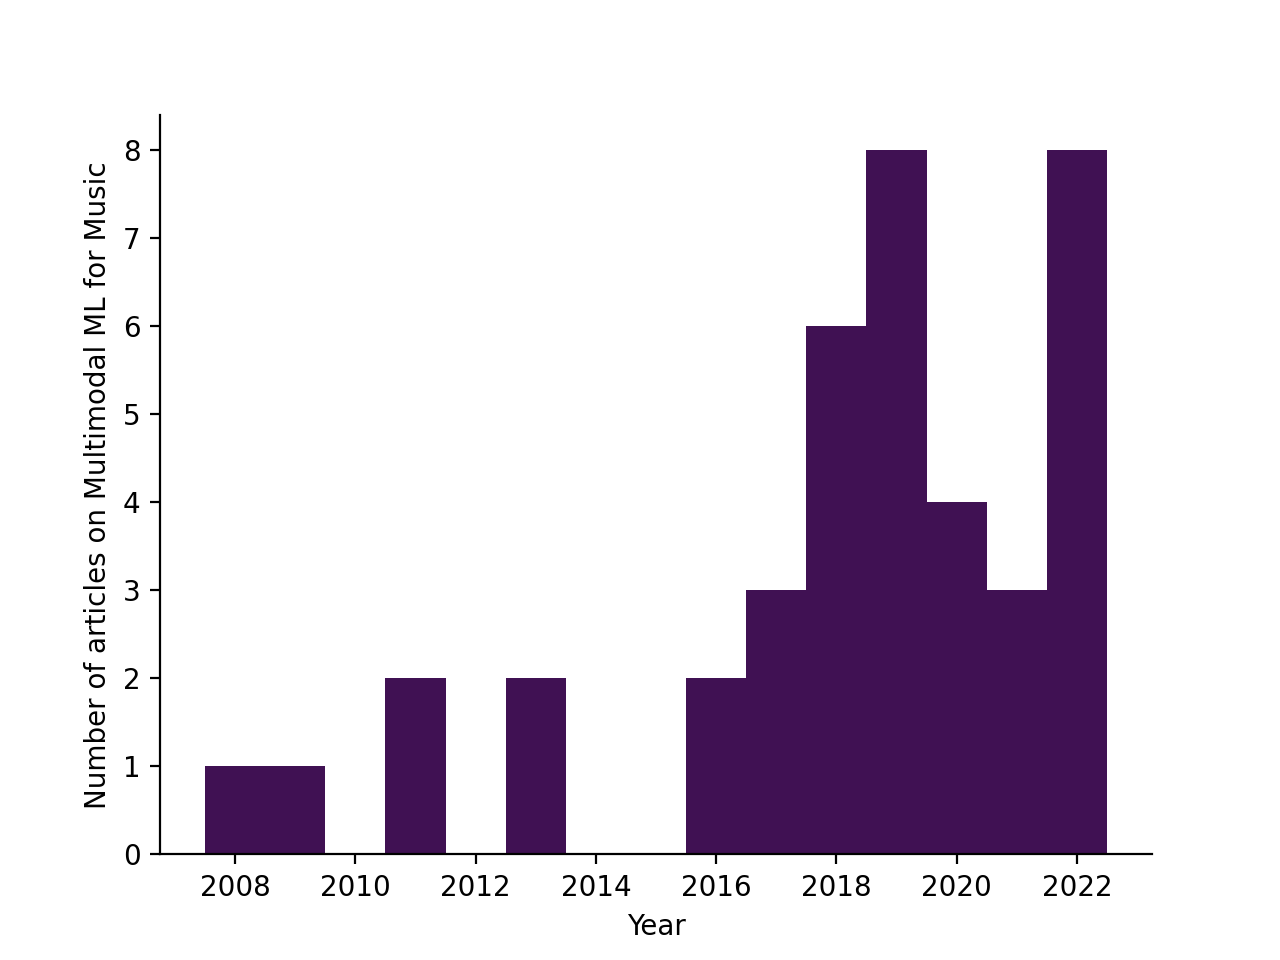
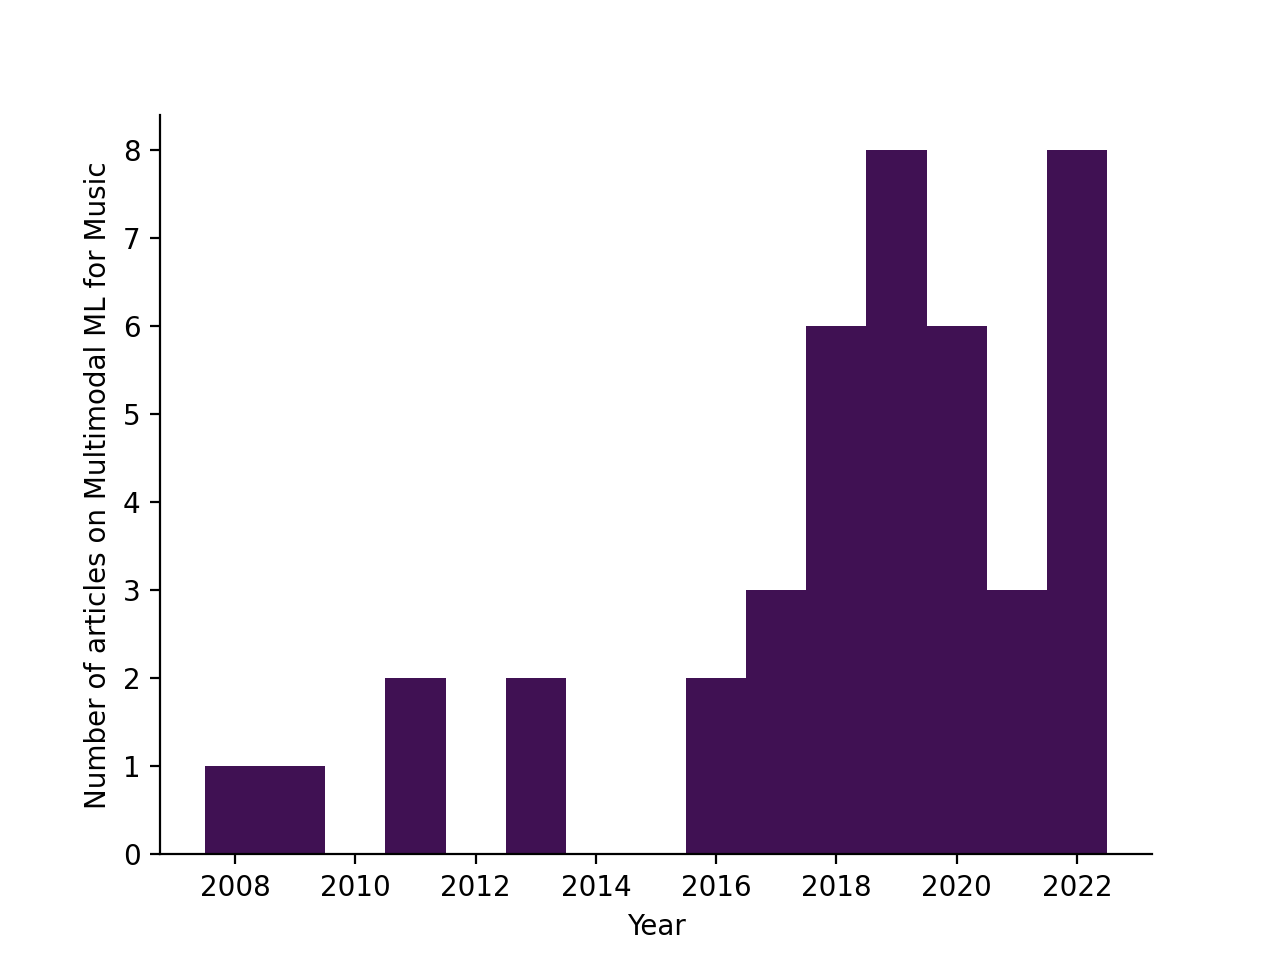
add gan2020foley and gan2020music entries

Changed region(s): [[0.7188, 0.3125, 0.7812, 0.5312]]

diff --git a/README.md b/README.md
@@ -54,6 +54,8 @@ Summary of papers on multimodal machine learning for music, including the review
  |  2021  |  [Multimodal metric learning for tag-based music retrieval](https://arxiv.org/pdf/2010.16030.pdf)  |  [GitHub](https://github.com/minzwon/tag-based-music-retrieval) 
  |  2021  |  [Enriched music representations with multiple cross-modal contrastive learning](https://arxiv.org/abs/2104.00437)  |  [GitHub](https://github.com/andrebola/contrastive-mir-learning) 
  |  2020  |  [Large-Scale Weakly-Supervised Content Embeddings for Music Recommendation and Tagging](https://ieeexplore.ieee.org/abstract/document/9053240)  |  
+ |  2020  |  [Music gesture for visual sound separation](https://openaccess.thecvf.com/content_CVPR_2020/papers/Gan_Music_Gesture_for_Visual_Sound_Separation_CVPR_2020_paper.pdf)  |  
+ |  2020  |  [Foley music: Learning to generate music from videos](https://www.ecva.net/papers/eccv_2020/papers_ECCV/papers/123560732.pdf)  |  
  |  2020  |  [Learning Contextual Tag Embeddings for Cross-Modal Alignment of Audio and Tags](https://arxiv.org/pdf/2010.14171.pdf)  |  [GitHub](https://github.com/xavierfav/ae-w2v-attention) 
  |  2019  |  [Audio-visual embedding for cross-modal music video retrieval through supervised deep CCA](https://arxiv.org/pdf/1908.03744.pdf)  |  
  |  2019  |  [Query-by-Blending: a Music Exploration System Blending Latent Vector Representations of Lyric Word, Song Audio, and Artist](https://archives.ismir.net/ismir2019/paper/000015.pdf)  |  
@@ -95,14 +97,14 @@ Summary of papers on multimodal machine learning for music, including the review
 
 ## Statistics & Visualisations
 
-- 40 papers referenced. See the details in [multimodal_ml_music.bib](multimodal_ml_music.bib).
+- 42 papers referenced. See the details in [multimodal_ml_music.bib](multimodal_ml_music.bib).
 Number of articles per year:
 ![Number of articles per year](fig/articles_per_year.png)
-- If you are applying multimodal ML to music, there are [136 other researchers](authors.md) in your field.
-- 9 tasks investigated. See the list of [tasks](tasks.md).
+- If you are applying multimodal ML to music, there are [139 other researchers](authors.md) in your field.
+- 10 tasks investigated. See the list of [tasks](tasks.md).
 Tasks pie chart:
 ![Tasks pie chart](fig/pie_chart_task.png)
-- Only 13 articles (32%) provide their source code.
+- Only 13 articles (30%) provide their source code.
  by [Yann Bayle](http://yannbayle.fr/english/index.php) has a very useful list of [resources on reproducibility for MIR and ML](https://github.com/ybayle/awesome-deep-learning-music/blob/master/reproducibility.md).
 
 

diff --git a/publication_type.md b/publication_type.md
@@ -19,6 +19,7 @@
 - 20th International Society for Music Information Retrieval Conference
 - 32nd Annual International ACM SIGIR Conference on Research and Development in Information Retrieval
 - CEUR Workshop Proceedings
+- European Conference on Computer Vision
 - ICASSP 2020-2020 IEEE International Conference on Acoustics, Speech and Signal Processing (ICASSP)
 - ICASSP 2021-2021 IEEE International Conference on Acoustics, Speech and Signal Processing (ICASSP)
 - ICASSP 2022-2022 IEEE International Conference on Acoustics, Speech and Signal Processing (ICASSP)
@@ -37,5 +38,6 @@
 - Proceedings of the 23rd International Society for Music Information Retrieval Conference (ISMIR)
 - Proceedings of the 27th International Conference on Computational Linguistics
 - Proceedings of the 2nd Workshop on Deep Learning for Recommender Systems
+- Proceedings of the IEEE/CVF Conference on Computer Vision and Pattern Recognition
 - Second Workshop on Interactive Learning for Natural Language Processing at NeurIPS 2022
 - The European Conference on Computer Vision (ECCV)

diff --git a/authors.md b/authors.md
@@ -12,6 +12,7 @@
 - Bogdanov, Dmitry
 - Cai, Tian 
 - Chen, Lei
+- Chen, Peihao
 - Cho, Kyunghyun
 - Choi, Keunwoo
 - Clark, Stephen
@@ -53,6 +54,7 @@
 - Hennequin, Romain
 - Herrera, Perfecto
 - Hong, Sungeun
+- Huang, Deng
 - Huang, Qingqing
 - Im, Woobin
 - Ismail, Mahmoud Al
@@ -114,6 +116,7 @@
 - Sordo, Mohamed
 - Sun, Zhe
 - Tang, Suhua
+- Tenenbaum, Joshua B
 - Torralba, Antonio
 - Turnbull, Douglas R.
 - Tzanetakis, George

diff --git a/tasks.md b/tasks.md
@@ -5,6 +5,7 @@
 - image generation
 - mood classification
 - music captioning
+- music generation
 - music recommendation
 - music retrieval
 - music video retrieval
